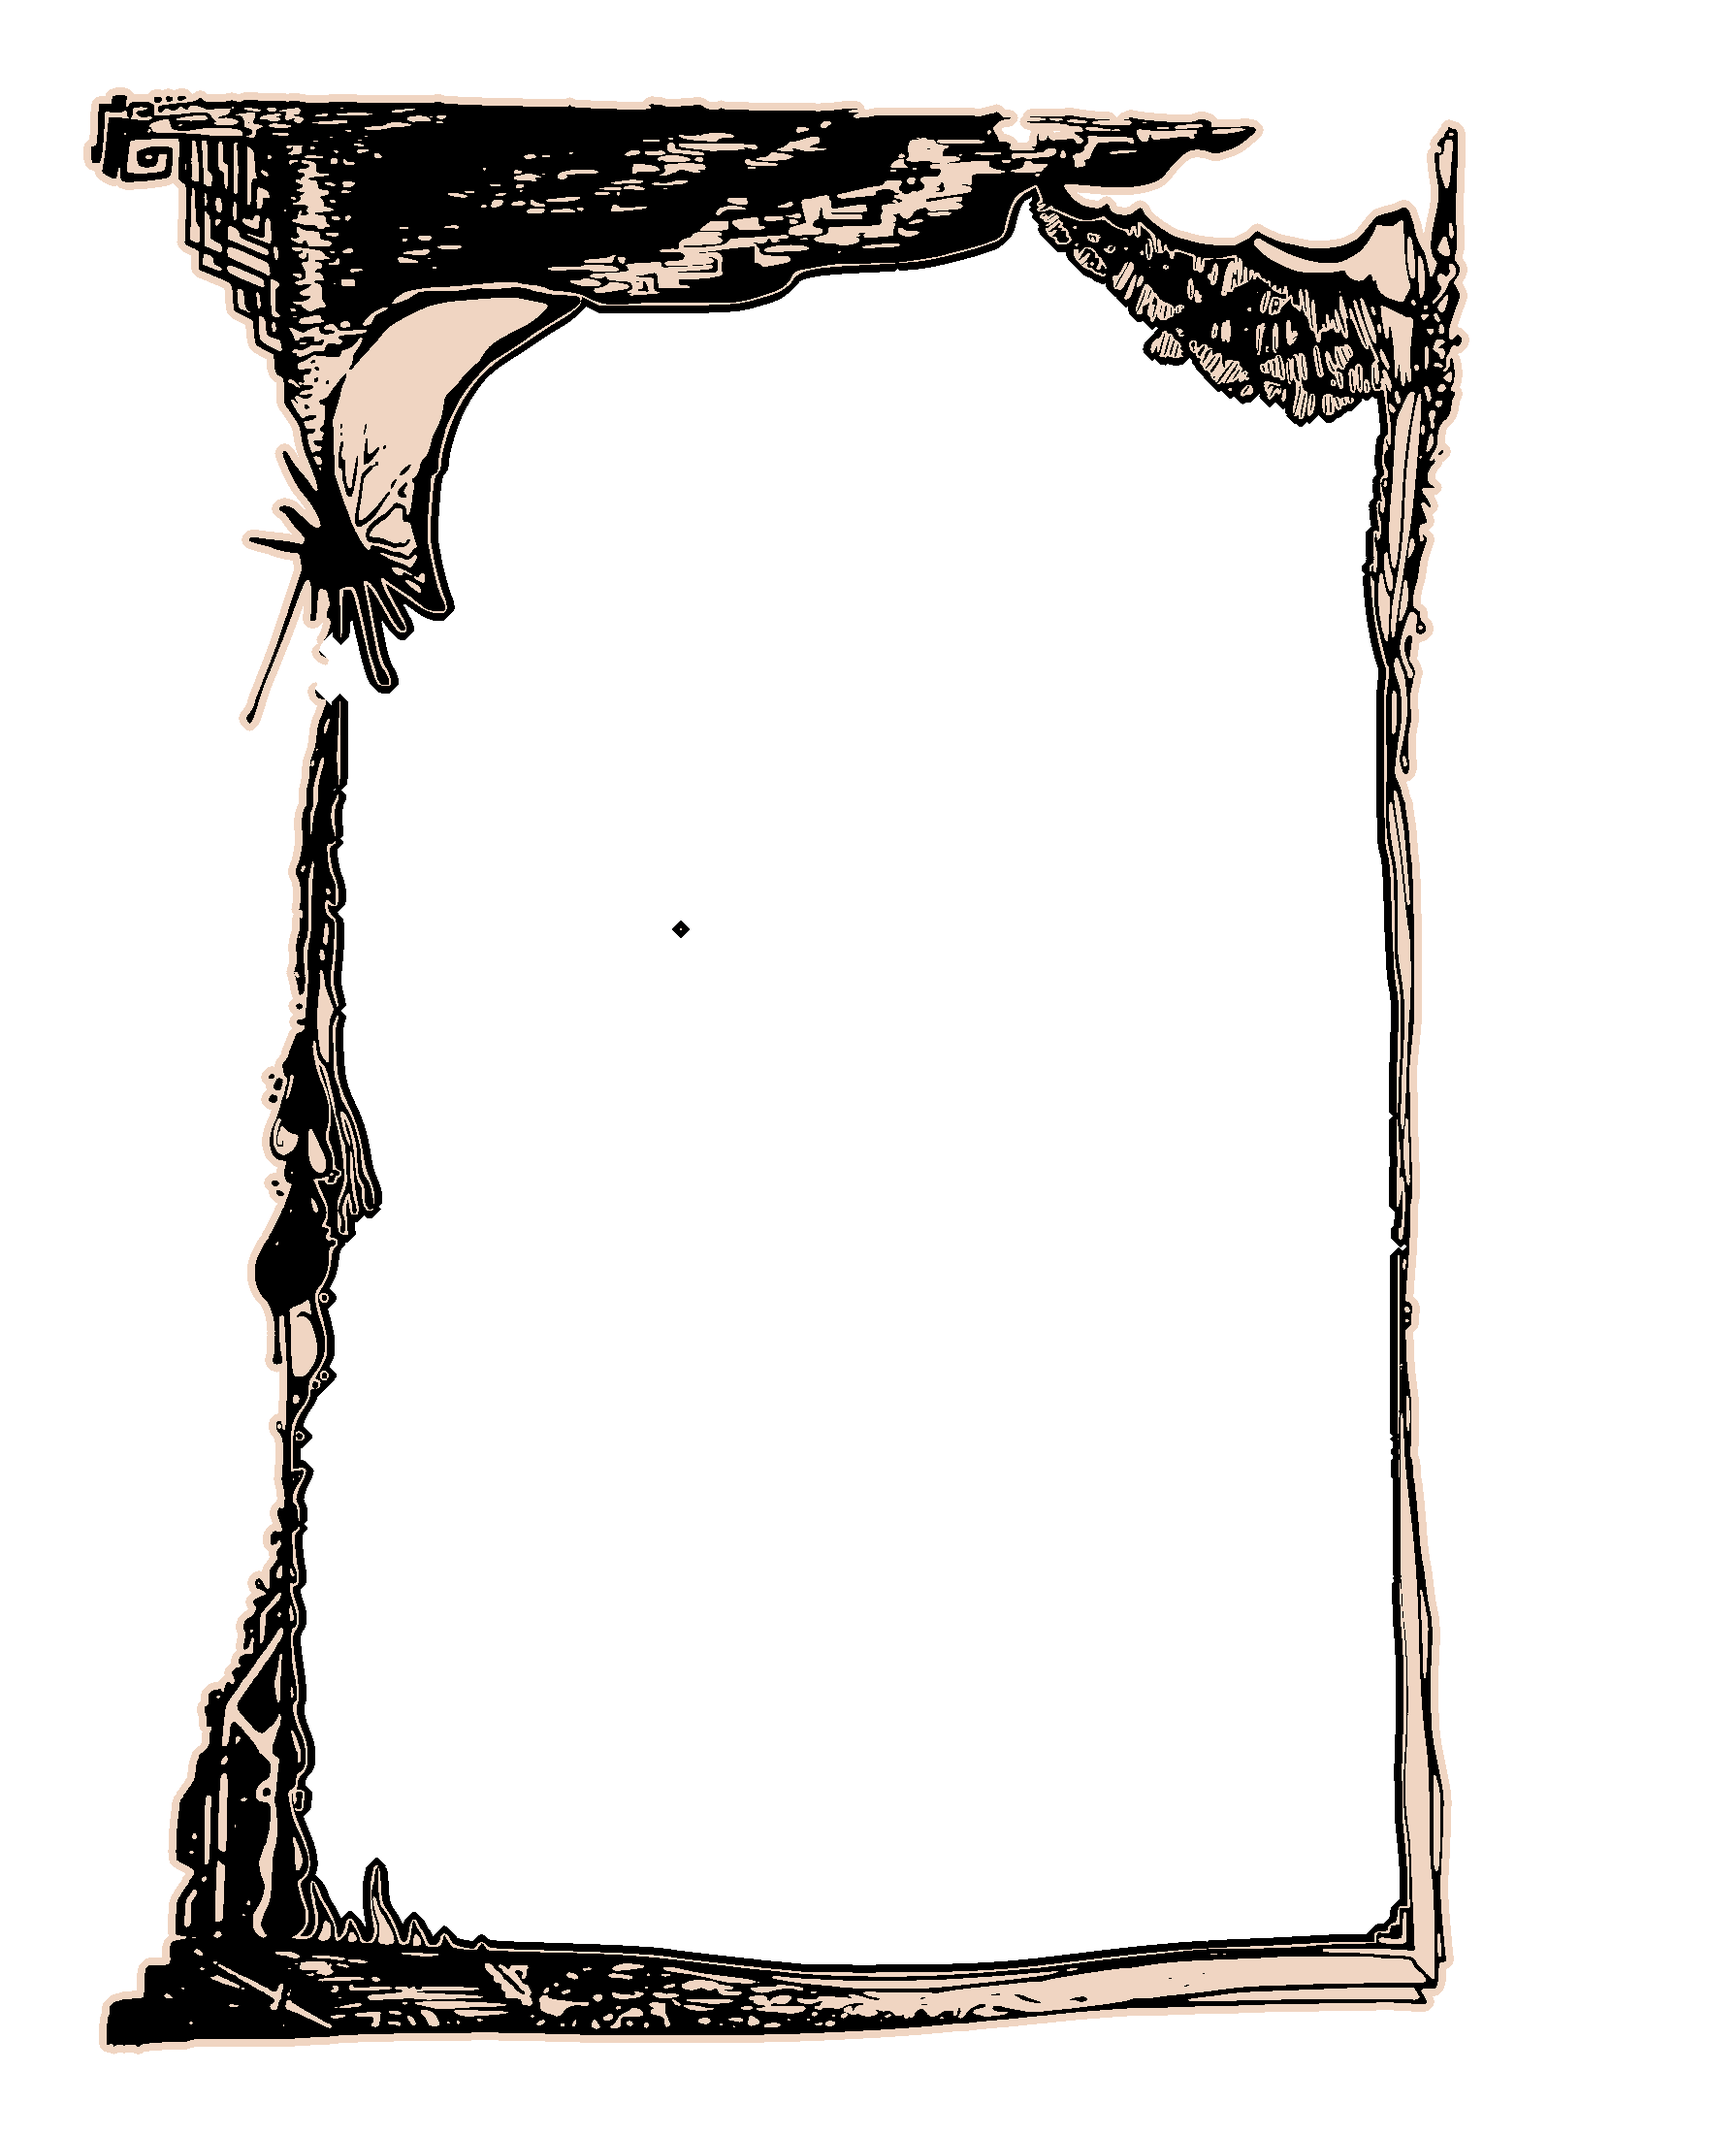
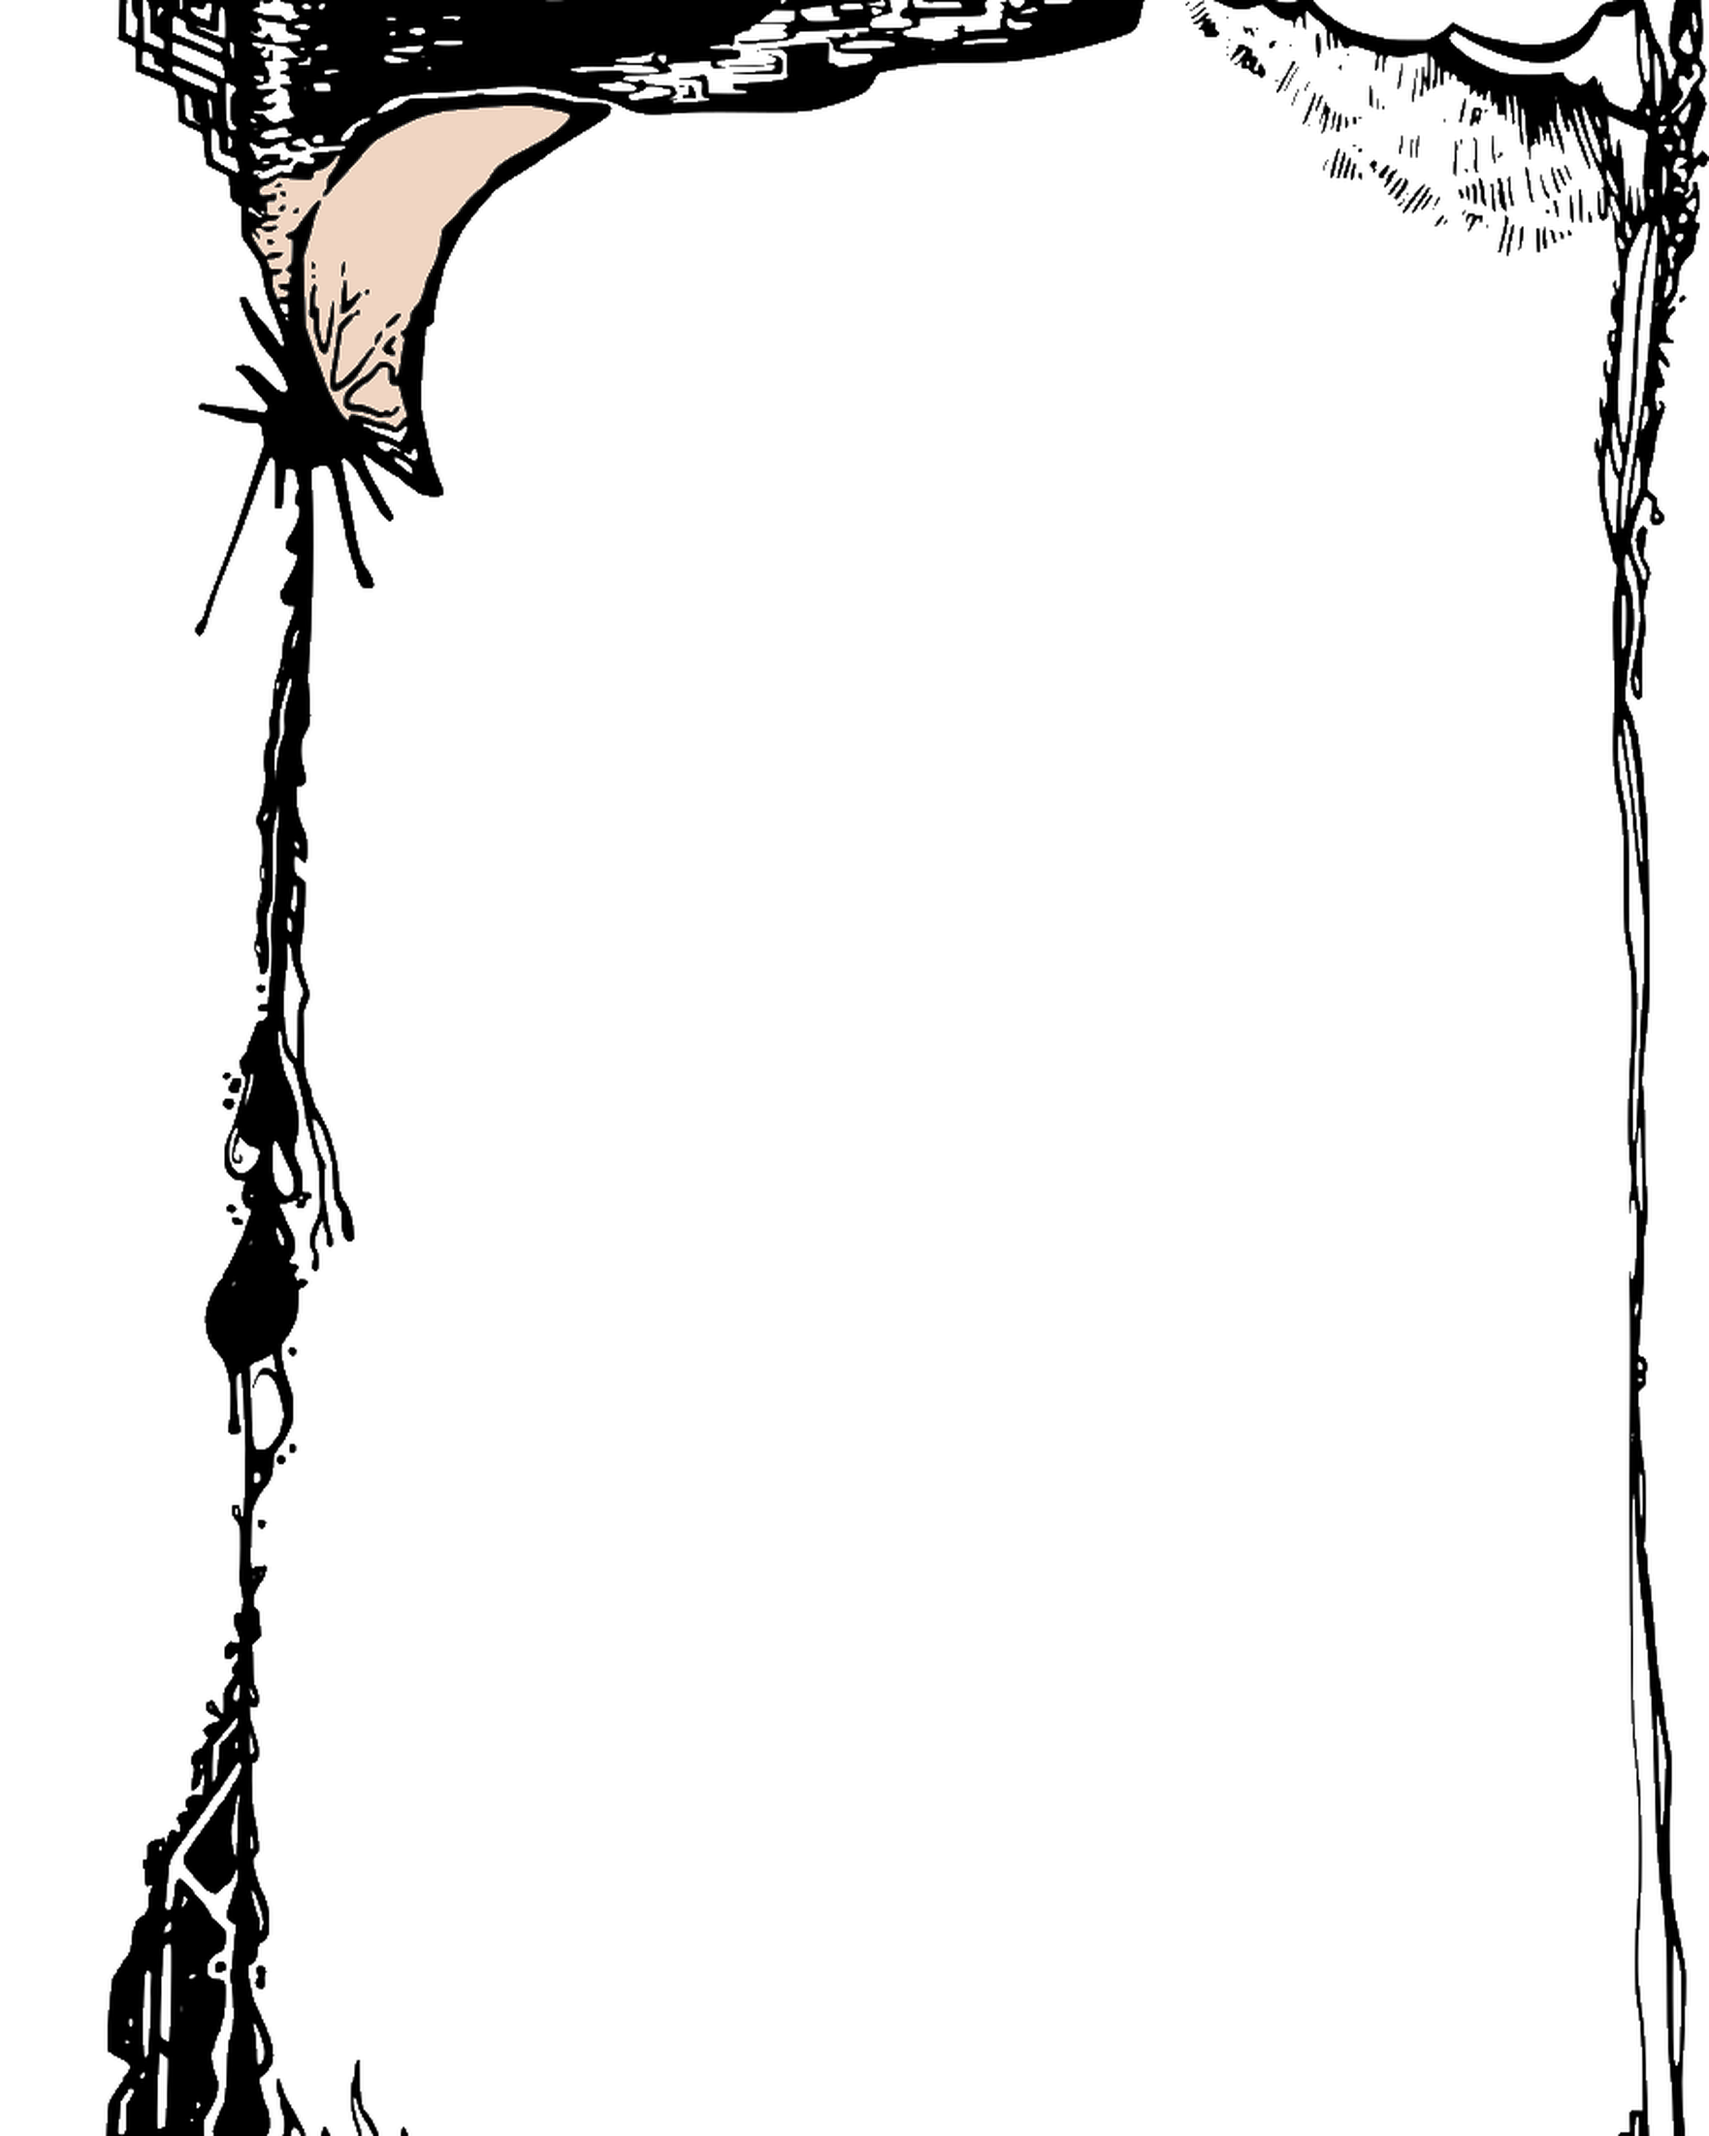
Regenerate audio page frame overlay from new source art
Re-extracts the hand-drawn border + moon artwork from an improved
source drawing, discarding the stray red/white selection markers that
were layered on top of it. Border ink and the moon's cream fill are
kept; the newly-drawn dancer figures were dropped since they read as
invisible or overpowering against the dark album cover depending on
their color.

Changed region(s): [[0.0312, 0.0, 1.0, 1.0]]

diff --git a/audio-fr.html b/audio-fr.html
@@ -66,7 +66,7 @@
           </div>
         </div>
       </div>
-      <img src="audio-frame-overlay.png?v=6" alt="" class="native-audio-frame-overlay">
+      <img src="audio-frame-overlay.png?v=7" alt="" class="native-audio-frame-overlay">
     </div>
     <p class="bandcamp-link-below"><a class="content-link social-link" href="https://comodorosuleyman.bandcamp.com/" target="_blank" rel="noopener"><svg class="social-icon" viewBox="0 0 512 512" aria-hidden="true"><path fill="currentColor" d="M256,8C119,8,8,119,8,256S119,504,256,504,504,393,504,256,393,8,256,8Zm48.2,326.1h-181L207.9,178h181Z"/></svg>Écouter sur Bandcamp</a></p>
   </div>

diff --git a/audio-es.html b/audio-es.html
@@ -66,7 +66,7 @@
           </div>
         </div>
       </div>
-      <img src="audio-frame-overlay.png?v=6" alt="" class="native-audio-frame-overlay">
+      <img src="audio-frame-overlay.png?v=7" alt="" class="native-audio-frame-overlay">
     </div>
     <p class="bandcamp-link-below"><a class="content-link social-link" href="https://comodorosuleyman.bandcamp.com/" target="_blank" rel="noopener"><svg class="social-icon" viewBox="0 0 512 512" aria-hidden="true"><path fill="currentColor" d="M256,8C119,8,8,119,8,256S119,504,256,504,504,393,504,256,393,8,256,8Zm48.2,326.1h-181L207.9,178h181Z"/></svg>Escuchar en Bandcamp</a></p>
   </div>

diff --git a/audio-ro.html b/audio-ro.html
@@ -66,7 +66,7 @@
           </div>
         </div>
       </div>
-      <img src="audio-frame-overlay.png?v=6" alt="" class="native-audio-frame-overlay">
+      <img src="audio-frame-overlay.png?v=7" alt="" class="native-audio-frame-overlay">
     </div>
     <p class="bandcamp-link-below"><a class="content-link social-link" href="https://comodorosuleyman.bandcamp.com/" target="_blank" rel="noopener"><svg class="social-icon" viewBox="0 0 512 512" aria-hidden="true"><path fill="currentColor" d="M256,8C119,8,8,119,8,256S119,504,256,504,504,393,504,256,393,8,256,8Zm48.2,326.1h-181L207.9,178h181Z"/></svg>Ascultă pe Bandcamp</a></p>
   </div>

diff --git a/audio.html b/audio.html
@@ -66,7 +66,7 @@
           </div>
         </div>
       </div>
-      <img src="audio-frame-overlay.png?v=6" alt="" class="native-audio-frame-overlay">
+      <img src="audio-frame-overlay.png?v=7" alt="" class="native-audio-frame-overlay">
     </div>
     <p class="bandcamp-link-below"><a class="content-link social-link" href="https://comodorosuleyman.bandcamp.com/" target="_blank" rel="noopener"><svg class="social-icon" viewBox="0 0 512 512" aria-hidden="true"><path fill="currentColor" d="M256,8C119,8,8,119,8,256S119,504,256,504,504,393,504,256,393,8,256,8Zm48.2,326.1h-181L207.9,178h181Z"/></svg>Listen on Bandcamp</a></p>
   </div>
